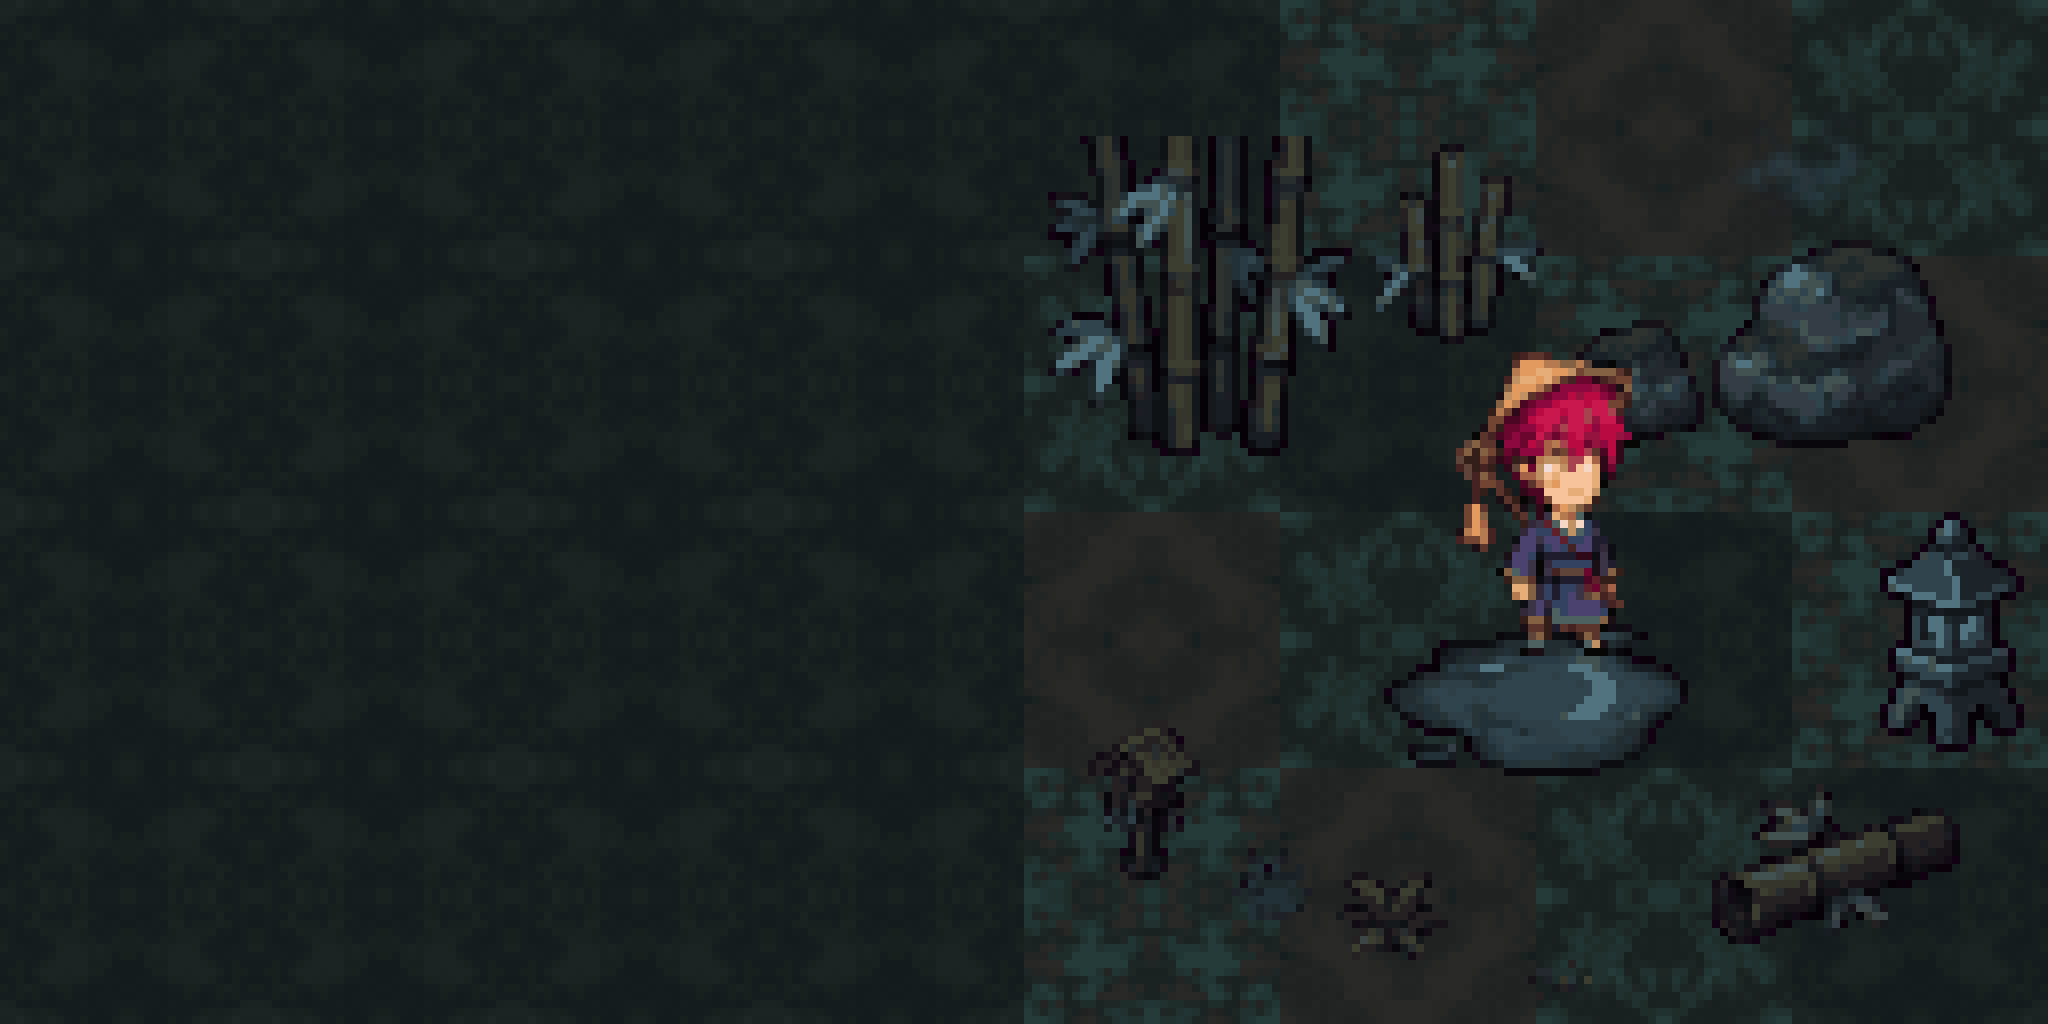
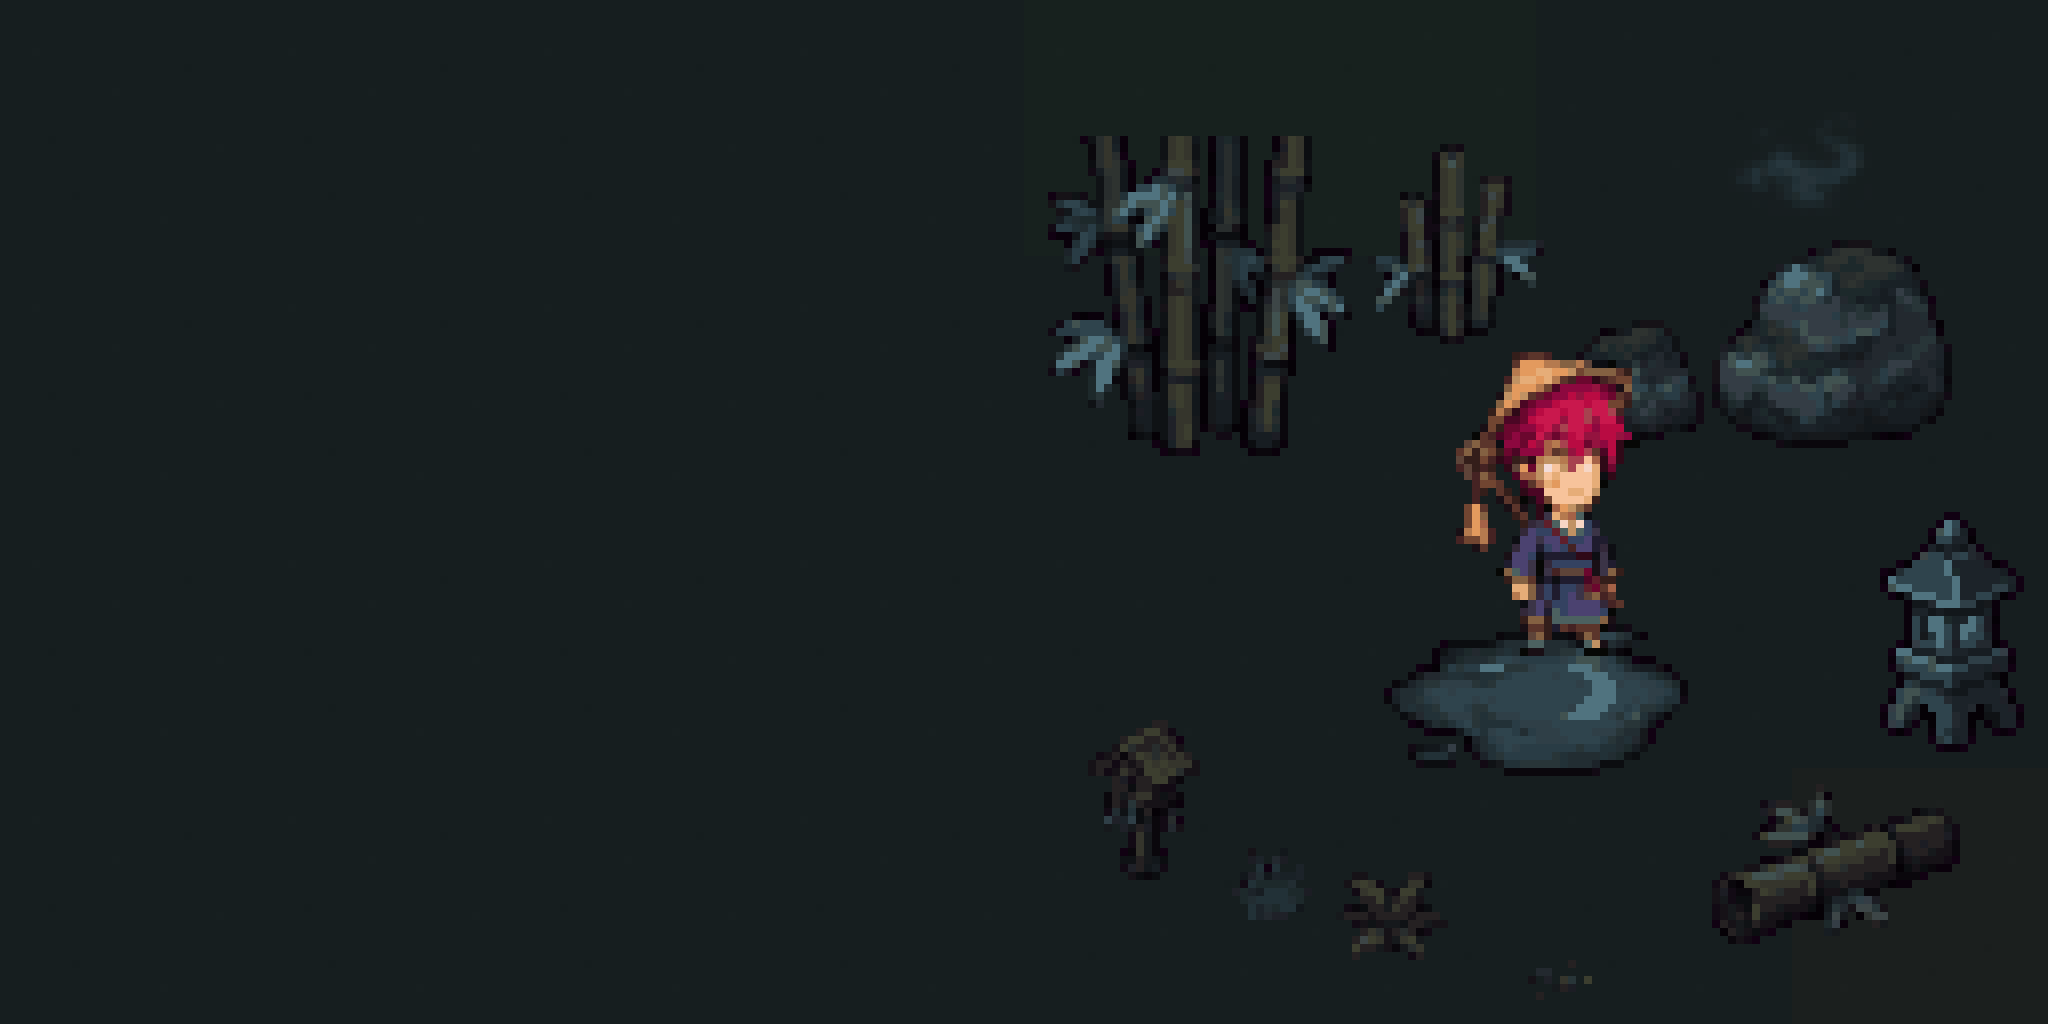
fix(assets): quieter seamless ground tiles for the bamboo forest

diff --git a/asset/stages/bamboo_forest/build_assets.py b/asset/stages/bamboo_forest/build_assets.py
@@ -1,5 +1,6 @@
 from __future__ import annotations
 
+from collections import Counter
 from dataclasses import dataclass
 from pathlib import Path
 
@@ -205,28 +206,57 @@ def build_sprites(sheet: Image.Image) -> dict[str, Image.Image]:
     return {name: apply_palette(image, palette) for name, image in logical.items()}
 
 
-def mirrored_tile(source: Image.Image) -> Image.Image:
-    patch = source.convert("RGBA").resize((16, 16), Image.Resampling.BOX)
-    tile = Image.new("RGBA", (32, 32))
-    tile.alpha_composite(patch, (0, 0))
-    tile.alpha_composite(patch.transpose(Image.Transpose.FLIP_LEFT_RIGHT), (16, 0))
-    tile.alpha_composite(patch.transpose(Image.Transpose.FLIP_TOP_BOTTOM), (0, 16))
-    tile.alpha_composite(patch.transpose(Image.Transpose.ROTATE_180), (16, 16))
+QUIET_GRAIN = (
+    (4, 6, 1),
+    (9, 24, -1),
+    (14, 11, 1),
+    (20, 27, 1),
+    (23, 8, -1),
+    (27, 18, 1),
+    (6, 17, -1),
+)
+
+
+def median_rgb(image: Image.Image) -> tuple[int, int, int]:
+    histogram = image.convert("RGB").histogram()
+    medians = []
+    for channel in range(3):
+        values = histogram[channel * 256:(channel + 1) * 256]
+        halfway = sum(values) // 2
+        running = 0
+        for value, count in enumerate(values):
+            running += count
+            if running >= halfway:
+                medians.append(value)
+                break
+    return tuple(medians)
+
+
+def quiet_tile(color: tuple[int, int, int]) -> Image.Image:
+    """Make a nearly-flat logical tile with only seven one-pixel grain marks."""
+    tile = Image.new("RGB", (32, 32), color)
+    for x, y, delta in QUIET_GRAIN:
+        tile.putpixel((x, y), tuple(max(0, min(255, value + delta)) for value in color))
     return tile
 
 
 def build_ground(sheet: Image.Image) -> dict[str, Image.Image]:
-    # Keep the chroma gutters outside the BOX footprint: even a few hot-pink
-    # source pixels average into a visible dark-purple seam after quantizing.
-    boxes = {
-        "ground_tile": (24, 24, 1000, 1000),
-        "patchy_grass": (1048, 24, 2024, 1000),
-        "dirt": (24, 1048, 1000, 2024),
-        "moss": (1048, 1048, 2024, 2024),
+    # Anchor the quiet palette to the Higgsfield base swatch, then compress all
+    # variant differences to a few RGB levels. Direct logical-pixel grain
+    # replaces the old mirrored patch, whose symmetry created a tiled diamond.
+    source_base = median_rgb(sheet.crop((24, 24, 1000, 1000)))
+    base = (
+        min(255, source_base[0] + 2),
+        min(255, source_base[1] + 2),
+        min(255, source_base[2] + 1),
+    )
+    colors = {
+        "ground_tile": base,
+        "patchy_grass": (base[0] + 3, base[1] + 4, base[2] + 2),
+        "dirt": (base[0] + 5, base[1] + 1, max(0, base[2] - 1)),
+        "moss": (base[0] + 1, base[1] + 3, max(0, base[2] - 1)),
     }
-    raw = {name: mirrored_tile(sheet.crop(box)) for name, box in boxes.items()}
-    palette = palette_from_images(list(raw.values()), 20)
-    return {name: apply_palette(image, palette).convert("RGB") for name, image in raw.items()}
+    return {name: quiet_tile(color) for name, color in colors.items()}
 
 
 def upscale(image: Image.Image, scale: int = SCALE) -> Image.Image:
@@ -239,6 +269,55 @@ def assert_seamless(tile: Image.Image) -> None:
         raise ValueError("ground tile left/right edges do not match")
     if list(rgb.crop((0, 0, 32, 1)).get_flattened_data()) != list(rgb.crop((0, 31, 32, 32)).get_flattened_data()):
         raise ValueError("ground tile top/bottom edges do not match")
+    edges = (
+        list(rgb.crop((0, 0, 32, 1)).get_flattened_data()),
+        list(rgb.crop((31, 0, 32, 32)).get_flattened_data()),
+        list(rgb.crop((0, 31, 32, 32)).get_flattened_data()),
+        list(rgb.crop((0, 0, 1, 32)).get_flattened_data()),
+    )
+    if any(edge != edges[0] for edge in edges[1:]):
+        raise ValueError("ground tile edges are not interchangeable under 90-degree rotation")
+
+
+def assert_quiet_ground(ground: dict[str, Image.Image]) -> None:
+    dominant: dict[str, tuple[int, int, int]] = {}
+    for name, tile in ground.items():
+        counts = Counter(tile.convert("RGB").get_flattened_data())
+        color, count = counts.most_common(1)[0]
+        dominant[name] = color
+        if len(counts) != 3 or count != 1017:
+            raise ValueError(f"{name} must be one flat color plus exactly seven grain pixels")
+        if any(max(abs(value - anchor) for value, anchor in zip(candidate, color)) > 1 for candidate in counts):
+            raise ValueError(f"{name} grain exceeds one RGB level")
+    base = dominant["ground_tile"]
+    for name, color in dominant.items():
+        if name != "ground_tile" and max(abs(value - anchor) for value, anchor in zip(color, base)) > 5:
+            raise ValueError(f"{name} differs too strongly from the base tile")
+
+
+def rotated(tile: Image.Image, turns: int) -> Image.Image:
+    rotations = (
+        None,
+        Image.Transpose.ROTATE_90,
+        Image.Transpose.ROTATE_180,
+        Image.Transpose.ROTATE_270,
+    )
+    return tile.copy() if turns % 4 == 0 else tile.transpose(rotations[turns % 4])
+
+
+def mixed_ground(ground: dict[str, Image.Image], cells: int = 8) -> Image.Image:
+    """Mix 10/64 variant tiles in three small clusters, with per-tile rotation."""
+    placements = {
+        (1, 1): "moss", (1, 2): "moss", (2, 1): "moss", (2, 2): "moss",
+        (5, 4): "patchy_grass", (5, 5): "patchy_grass", (6, 4): "patchy_grass",
+        (3, 6): "dirt", (4, 6): "dirt", (4, 7): "dirt",
+    }
+    image = Image.new("RGB", (cells * 32, cells * 32))
+    for y in range(cells):
+        for x in range(cells):
+            name = placements.get((x, y), "ground_tile") if cells == 8 else "ground_tile"
+            image.paste(rotated(ground[name], (x + y * 2) % 4), (x * 32, y * 32))
+    return image
 
 
 def save_assets(ground: dict[str, Image.Image], sprites: dict[str, Image.Image]) -> None:
@@ -260,10 +339,14 @@ def make_contact_sheet(ground: dict[str, Image.Image], sprites: dict[str, Image.
             verification.paste(ground["ground_tile"], (x * 32, y * 32))
 
     stage = Image.new("RGB", (128, 128))
-    variants = ("ground_tile", "patchy_grass", "dirt", "moss")
     for y in range(4):
         for x in range(4):
-            stage.paste(ground[variants[(x + y * 3) % 4]], (x * 32, y * 32))
+            name = {
+                (0, 0): "moss",
+                (1, 0): "moss",
+                (3, 3): "dirt",
+            }.get((x, y), "ground_tile")
+            stage.paste(rotated(ground[name], (x + y * 2) % 4), (x * 32, y * 32))
 
     def place(name: str, x: int, y: int) -> None:
         stage.paste(sprites[name], (x, y), sprites[name])
@@ -289,7 +372,12 @@ def make_contact_sheet(ground: dict[str, Image.Image], sprites: dict[str, Image.
     combined.paste(verification, (0, 0))
     combined.paste(stage, (128, 0))
     upscale(combined, CONTACT_SCALE).save(OUT / "contact-sheet.png", optimize=True)
-    upscale(verification, CONTACT_SCALE).save(OUT / "tile-verification.png", optimize=True)
+    pure_base = Image.new("RGB", (256, 256))
+    for y in range(8):
+        for x in range(8):
+            pure_base.paste(rotated(ground["ground_tile"], (x + y * 2) % 4), (x * 32, y * 32))
+    upscale(pure_base, 4).save(OUT / "tile-verification.png", optimize=True)
+    upscale(mixed_ground(ground), 4).save(OUT / "ground-verification.png", optimize=True)
 
 
 def main() -> None:
@@ -298,6 +386,7 @@ def main() -> None:
     ground = build_ground(Image.open(RAW_GROUND))
     sprites = build_sprites(Image.open(RAW_PROPS))
 
+    assert_quiet_ground(ground)
     for tile in ground.values():
         assert_seamless(tile)
     for spec in SPRITES:

diff --git a/asset/stages/bamboo_forest/README.md b/asset/stages/bamboo_forest/README.md
@@ -31,29 +31,42 @@ partial alpha.
 | `decor/pebbles.png` | 14x8 | Non-colliding decor |
 | `decor/fog_wisp.png` | 48x24 | Non-colliding, semi-transparent decor |
 
-`contact-sheet.png` compares a 4x4 repetition of the base tile with a mixed
-stage mock-up containing every prop, every decor sprite, and the Taoist for
-scale. `tile-verification.png` is the dedicated 4x4 seam check.
+`contact-sheet.png` compares a 4x4 repetition of the base tile with a sparse
+mixed-stage mock-up containing every prop, every decor sprite, and the Taoist
+for scale. `tile-verification.png` is a pure 8x8 base grid with per-tile
+rotation. `ground-verification.png` is the required 8x8 gameplay mix: 10 of 64
+cells (15.625%) are variants, grouped into three small clusters, and every cell
+uses a deterministic 0/90/180/270-degree rotation.
 
 ## Palette and processing
 
-Representative ground colours are `#141c1d`, `#161d1e`, `#192020`, `#1e2c2a`,
-`#20312f`, `#223535`, and `#253b3a`. Props use the same low-value night family,
-with cool moonlit accents such as `#293c47`, `#2f444d`, `#415250`, and `#50737f`.
-The script derives a shared 20-colour ground palette and a shared 32-colour
-sprite palette directly from the generated hues; it does not recolour the art.
+The quiet ground palette remains anchored to the median of the Higgsfield base
+swatch. Current dominant colours are base `#161e1f`, patchy grass `#192221`,
+dirt `#1b1f1e`, and moss `#17211e`. Each tile has only seven interior grain
+pixels at exactly one RGB level above or below its dominant colour, so the grain
+survives as real logical pixels without becoming a blurred texture. Props keep
+the original shared 32-colour palette, including cool moonlit accents such as
+`#293c47`, `#2f444d`, `#415250`, and `#50737f`.
 
-Ground cells are cropped inside the atlas gutters, reduced with BOX to a 16x16
-patch, and reflected across both axes to form 32x32 tiles. That construction
-makes opposite edges identical; the script also compares every left/right and
-top/bottom logical edge exactly. The final 4x4 composite was visually inspected
-at 8x: no seam or chroma gutter survives, and the low-contrast ground remains
-visibly darker than the player and props.
+The original ground builder reduced a swatch to 16x16 and reflected it on both
+axes. That forced a countable diamond/lattice motif into every 32x32 tile. The
+replacement deliberately constructs an almost-flat 32x32 logical surface from
+the source-derived night colour and seven non-adjacent one-pixel grain marks.
+Every edge is one flat dominant colour, and the script requires all four edge
+arrays to be interchangeable, not only opposite-edge pairs; therefore any
+90-degree rotation remains seamless. The pure and mixed 8x8 composites were
+visually inspected at 4x NEAREST: there is no repeated figure or visible tile
+grid, while the clustered variants register only as very broad, faint hue/value
+shifts.
 
 Transparent sprites are keyed before resizing. RGB is premultiplied by alpha,
 both colour and alpha are BOX-resampled, solid alpha is thresholded back to
 binary, and the result is palette-snapped before its sole 16x NEAREST upscale.
 The fog uses the same colour process but preserves soft alpha.
+
+The quiet-ground retake reused the already-approved Higgsfield atlas and spent
+no additional generation credits; only the deterministic ground reduction and
+verification composite changed.
 
 ## Higgsfield generation record
 
@@ -118,5 +131,6 @@ $env:PYTHONDONTWRITEBYTECODE='1'
 python asset/stages/bamboo_forest/build_assets.py
 ```
 
-The build fails if a ground edge differs, a solid prop does not reach its base
-row, solid alpha is not binary, or a keyed magenta fringe remains.
+The build fails if a ground edge differs or cannot interchange with a rotated
+edge, a solid prop does not reach its base row, solid alpha is not binary, or a
+keyed magenta fringe remains.
